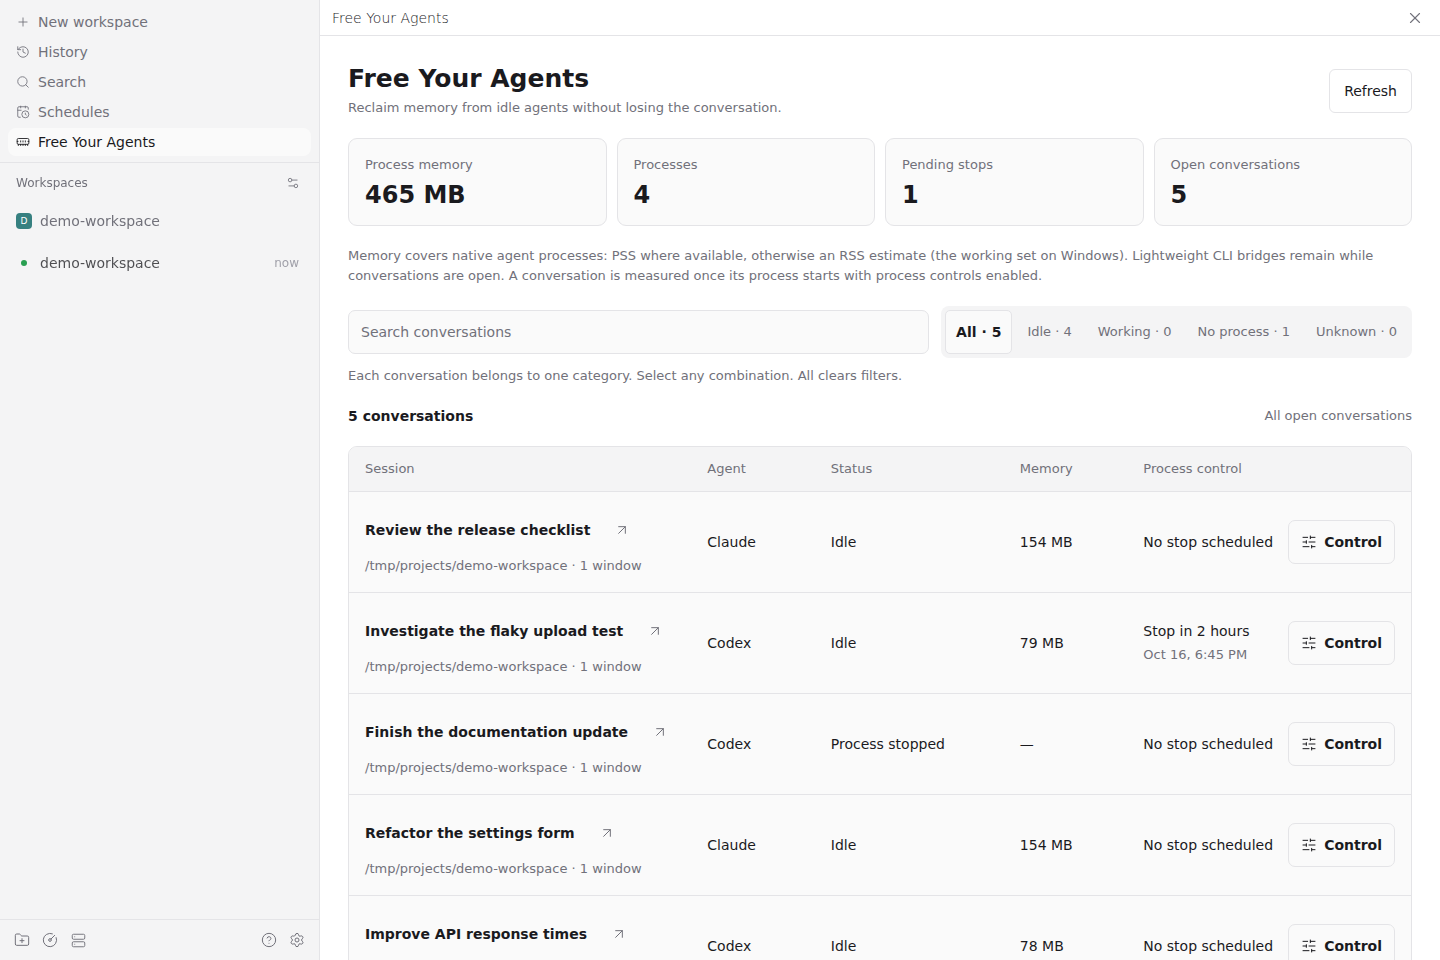
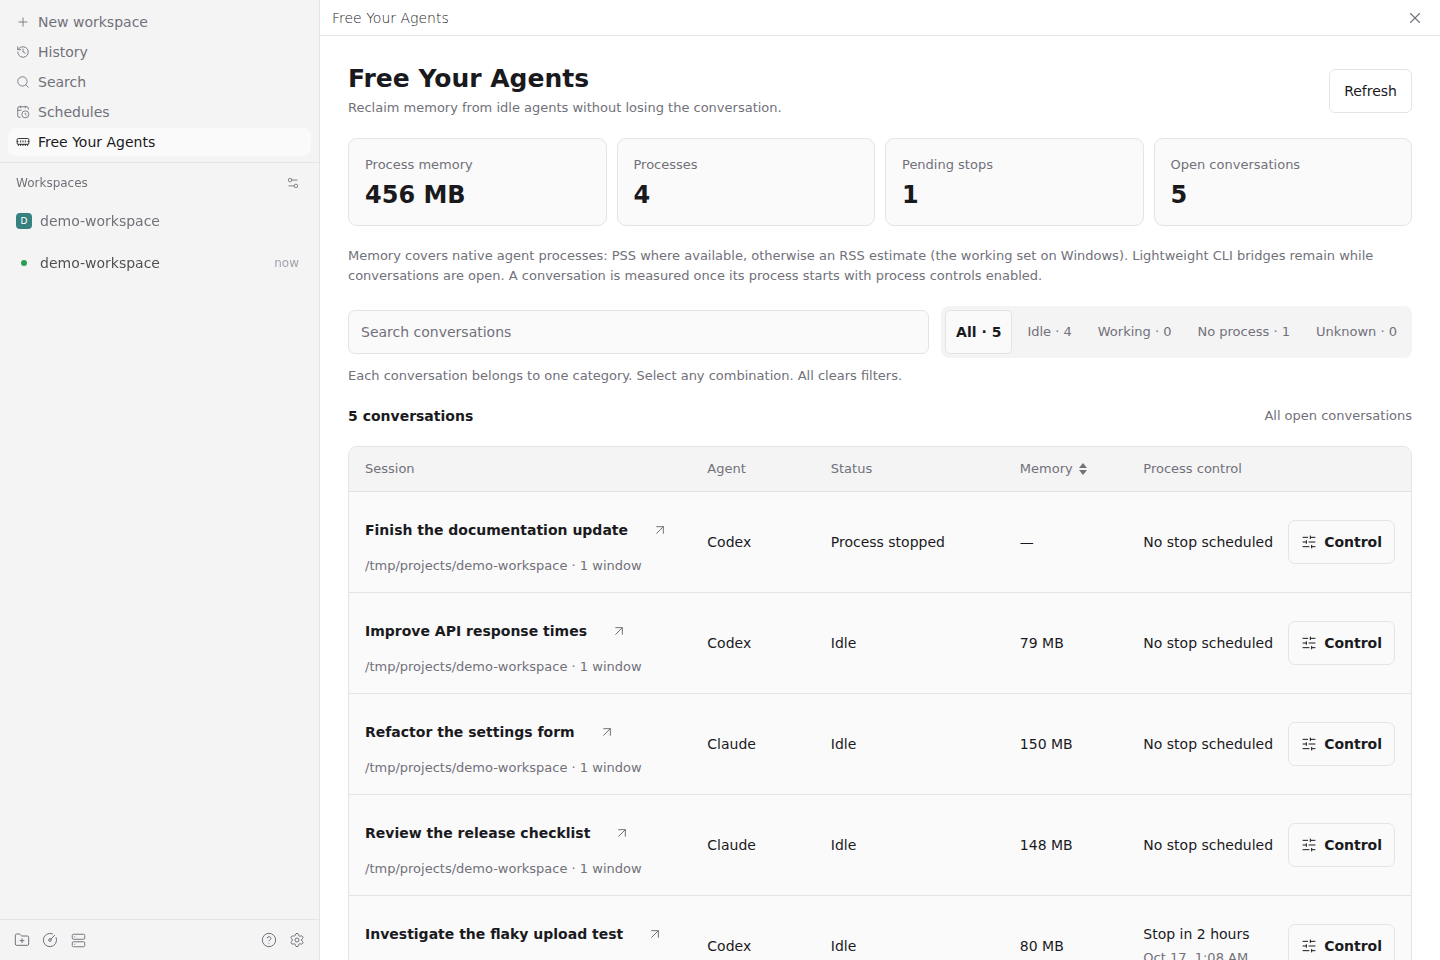
docs: recapture listing screenshots with the memory sort
The three listing images now come from Paseo 0.11.4 with Codex 0.163.0
and Claude 2.1.301. The scrolled list is sorted by memory, highest
first, and the provenance notes say process control starts on.

diff --git a/assets/README.md b/assets/README.md
@@ -1,9 +1,9 @@
 # Screenshot provenance
 
-Captured on October 16, 2026 from the real Paseo 0.11.2 bundled web app and Free Your Agents, using Chromium through Playwright at a 1440 × 960 desktop viewport.
+Captured on October 16, 2026 from the real Paseo 0.11.4 bundled web app and Free Your Agents, with Codex 0.163.0 and Claude 2.1.301, using Chromium through Playwright at a 1440 × 960 desktop viewport.
 
-- `free-your-agents.png` shows the screen opened from the sidebar after enabling the Codex and Claude controls, with five open demo conversations (three Codex, two Claude).
-- `conversations.png` shows the same list scrolled down: four idle processes, one stopped process, and a stop scheduled two hours ahead.
+- `free-your-agents.png` shows the screen opened from the sidebar, with process control on for Codex and Claude by default and five open demo conversations (three Codex, two Claude).
+- `conversations.png` shows the same list scrolled down and sorted by memory, highest first: four idle processes, one stopped process, and a stop scheduled two hours ahead.
 - `stop-menu.png` shows the process control dialog opened with an idle conversation's Control button.
 
 The conversations ran in an isolated daemon and demo workspace. Each received one fixture message answered by a local loopback model server, so no request reached a model provider. Memory values are real measurements of those processes. The stop and the schedule were made through the plugin.
